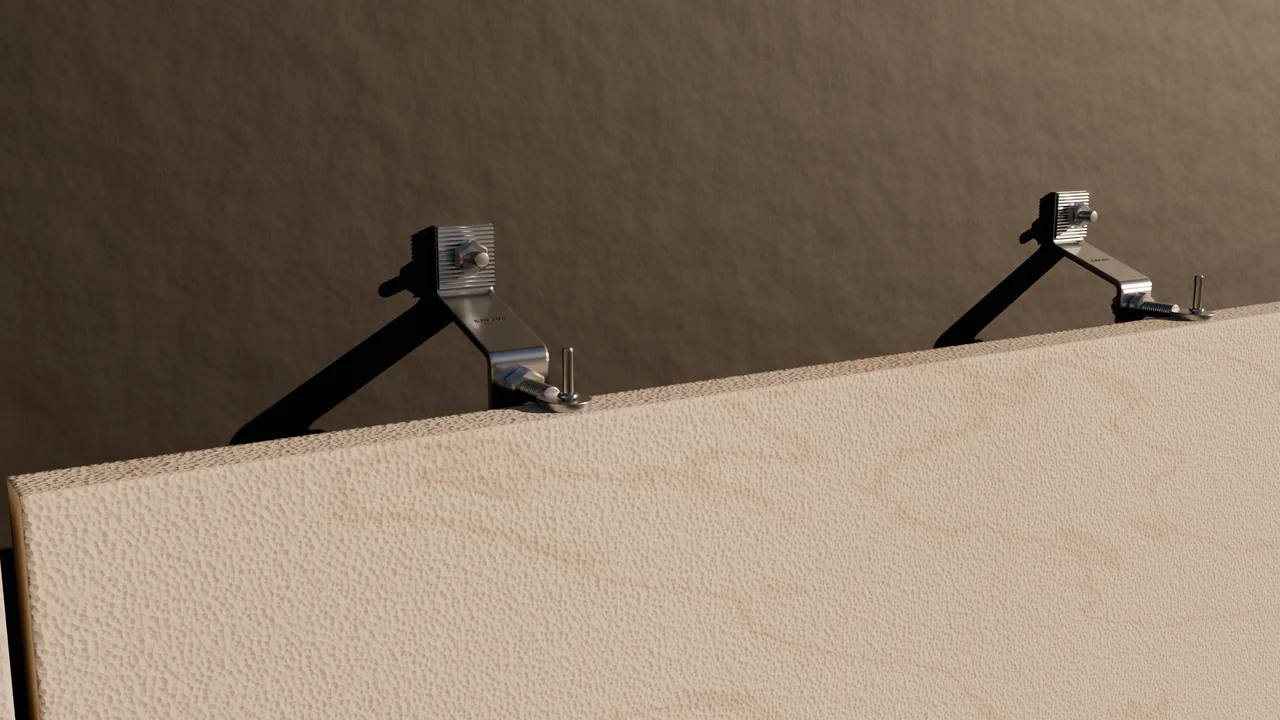
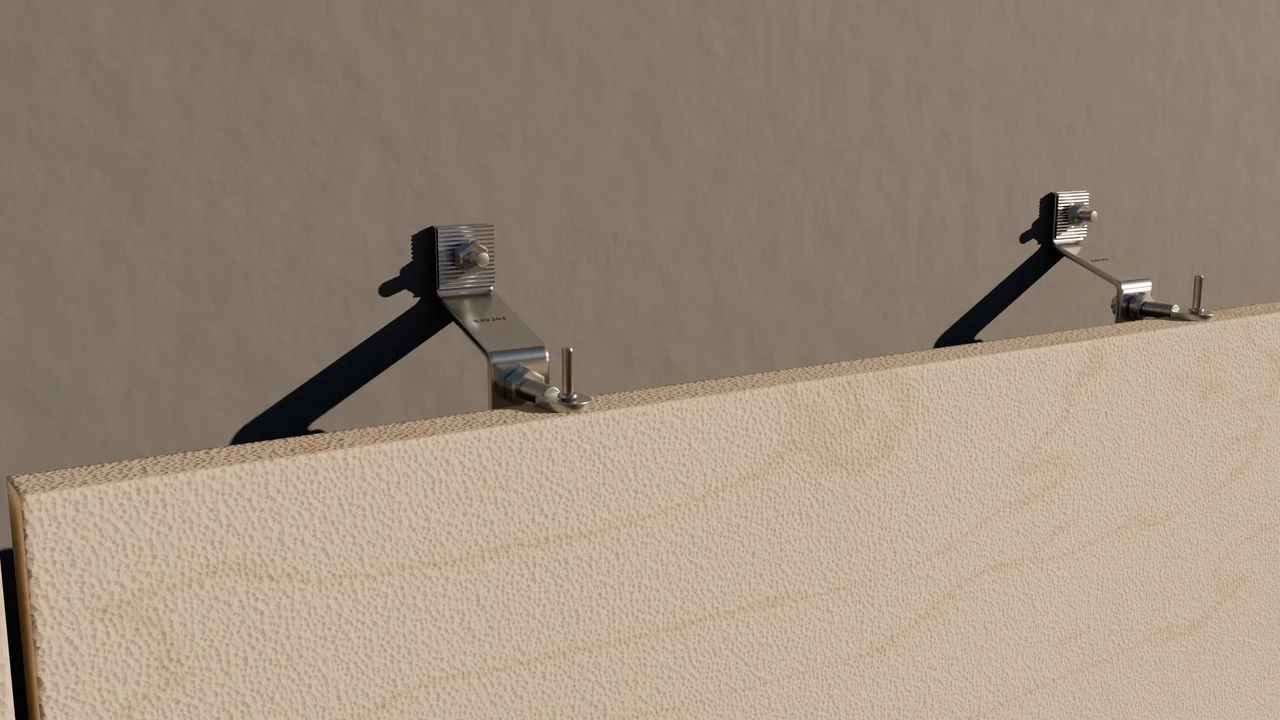
kv-v43a: facade chapter whole again (one open course shows the Z-brackets), concrete backing wall, no black bands; chapters 2-3 re-rendered
Claude-Session: https://claude.ai/code/session_01DoBbC3eykc5Fi4qFnF1oRj

diff --git a/assets/kv/herophoto.js b/assets/kv/herophoto.js
@@ -1,1 +1,1 @@
-const S=[{name:"The hotel",ox:.62,hi:2880,v:"fca9d9",tags:[]},{name:"Fa\xE7ade fixation",ox:.5,hi:2880,v:"3bed16",tags:[{text:"Natural stone panels",num:null,href:"product/mechanical-cladding-fixation.html",x:.2466,y:.2372},{text:"Stainless Z-brackets",num:null,href:"s/z-brackets.html",x:.3729,y:.4036},{text:"Solid backing wall",num:null,href:"product/mechanical-cladding-fixation.html",x:.4204,y:.2644},{text:"Ventilated cavity",num:null,href:"product/mechanical-cladding-fixation.html",x:.4811,y:.2924}]},{name:"The Z-bracket kit",ox:.5,hi:2880,v:"ce540f",tags:[{text:"Z-bracket",num:"1",href:"s/z-brackets.html",x:.4004,y:.4414},{text:"Through bolt",num:"2",href:"s/anchors.html",x:.3714,y:.359},{text:"Serrated washer",num:"3",href:"s/z-brackets.html",x:.3811,y:.3216},{text:"Hex nuts",num:"4",href:"s/z-brackets.html",x:.4103,y:.5191},{text:"Flat head bolt",num:"5",href:"s/z-brackets.html",x:.432,y:.553},{text:"Pin with ring",num:"6",href:"s/z-brackets.html",x:.4434,y:.4982}]},{name:"Cable management",ox:.5,hi:2880,v:"dd6412",tags:[{text:"Perforated cable tray",num:null,href:"product/cable-trays.html",x:.3201,y:.235},{text:"Cable ladder",num:null,href:"product/cable-ladders.html",x:.7321,y:.5475},{text:"Strut channel trapeze",num:null,href:"product/c-channel-strut.html",x:.6573,y:.4215},{text:"Threaded rod & nuts",num:null,href:"s/threaded-accessories.html",x:.7319,y:.4777},{text:"Pipe clamps",num:null,href:"product/pipe-clamps.html",x:.3827,y:.4447},{text:"Cable trunking",num:null,href:"product/cable-trunkings.html",x:.16,y:.9149}]},{name:"Raised access floor",ox:.5,hi:2880,v:"5015d3",tags:[{text:"Porcelain slabs 600 \xD7 600 mm",num:null,href:"product/raised-access-flooring.html",x:.6838,y:.4969},{text:"Adjustable pedestals",num:null,href:"s/indoor-access-floor.html",x:.6216,y:.6939},{text:"Self-levelling head",num:null,href:"s/indoor-access-floor.html",x:.857,y:.5949}]},{name:"Ceilings & expansion joints",ox:.5,hi:2880,v:"5e539d",tags:[{text:"Metal ceiling grid",num:null,href:"product/metal-ceiling-grid.html",x:.4944,y:.3199},{text:"Floor expansion joint",num:null,href:"s/floor-joints.html",x:.41,y:.78},{text:"Wall joint cover",num:null,href:"s/wall-ceiling-joints.html",x:.398,y:.5393}]},{name:"Blockwork & lintels",ox:.5,hi:2880,v:"d82cc7",tags:[{text:"Blockwork partition",num:null,href:"s/block-accessories.html",x:.4462,y:.3793},{text:"Steel lintel",num:null,href:"s/steel-lintels.html",x:.5078,y:.316},{text:"Angle beads",num:null,href:"s/plaster-beads.html",x:.5452,y:.5425}]},{name:"Garbage & linen chute",ox:.5,hi:2880,v:"ae5405",tags:[{text:"Chute through every floor",num:null,href:"product/garbage-linen-chutes.html",x:.513,y:.385},{text:"Intake doors",num:null,href:"s/chute-components.html",x:.5025,y:.4667},{text:"Chute sections",num:null,href:"s/chute-components.html",x:.515,y:.74}]},{name:"The roof",ox:.5,hi:2880,v:"da81b9",tags:[{text:"Porcelain terrace",num:null,href:"s/outdoor-pedestals.html",x:.5,y:.78},{text:"Terrace on adjustable pedestals",num:null,href:"s/outdoor-pedestals.html",x:.4508,y:.6766},{text:"FRP grating walkway",num:null,href:"s/frp-grating-handrail.html",x:.6566,y:.5929},{text:"FRP handrail",num:null,href:"s/frp-grating-handrail.html",x:.788,y:.3357},{text:"Cable ladder on strut stands",num:null,href:"product/cable-ladders.html",x:.7073,y:.3621}]}],Nt=[{o:[1.7,.65,.58],i:[1.22,.1,0]},{o:[1.6,.48,.59],i:[1.2,0,.25]},{o:[1.28,.5,.5],i:[1.4,.69,.98]},{o:[1.3,.4,1],i:[1.3,.45,0]},{o:[1.3,.4,0],i:[1.3,.6,1]},{o:[1.3,.5,0],i:[1.3,.5,1]},{o:[1.18,.5,.5],i:[1.35,.46,.07]},{o:[1.5,.19,.82],i:[1.25,.45,1]}],p="img/hotel/",X=620,i=document.querySelector(".hero"),ut=i&&i.querySelector(".hero-media");i&&ut&&zt();function zt(){const B=matchMedia("(prefers-reduced-motion: reduce)").matches,N=matchMedia("(min-width: 900px)"),v=S.length;let h=null;B||(h=document.createElement("div"),h.className="kv3d-pin kv3d-pin-long",i.parentNode.insertBefore(h,i),h.appendChild(i));const G=()=>!!h&&N.matches,z=document.createElement("div");z.className="kvh-stack",ut.appendChild(z);const y=S.map((t,a)=>{let n;const o="?v="+t.v,e=t.hi>1?t.hi:2560,l=p+"c"+a+"-1280.webp"+o+" 1280w, "+p+"c"+a+"-1920.webp"+o+" 1920w"+(t.hi?", "+p+"c"+a+"-"+e+".webp"+o+" "+e+"w":"");return a===0?(n=document.createElement("picture"),n.innerHTML='<source media="(max-width: 899px)" srcset="'+p+"c0p-800.webp?v=579884 800w, "+p+'c0p-1080.webp?v=579884 1080w" sizes="100vw"><img src="'+p+"c0-1920.webp"+o+'" srcset="'+l+'" sizes="100vw" alt="" fetchpriority="high" decoding="async">'):(n=document.createElement("img"),n.alt="",n.decoding="async",n.dataset.srcset=l),n.className="kvh-img"+(a===0?" on":""),n.style.setProperty("--ox",t.ox*100+"%"),z.appendChild(n),n}),O=t=>y[t].tagName==="PICTURE"?y[t].querySelector("img"):y[t],ft=t=>{const a=O(t);return a.complete&&a.naturalWidth>0},E=t=>{const a=y[t];a&&a.dataset.srcset&&(a.sizes="100vw",a.srcset=a.dataset.srcset,delete a.dataset.srcset)},xt=(t,a,n)=>{if(E(t),ft(t))return a();const o=O(t);let e=!1;const l=()=>{e||(e=!0,a())};o.addEventListener("load",l,{once:!0}),o.addEventListener("error",l,{once:!0}),n&&setTimeout(l,n)},M=document.createElement("div");M.className="kv3d-labels",M.setAttribute("aria-hidden","true"),i.appendChild(M);const pt=(t,a)=>{const n=document.createElement("div");n.className="kv3d-tag",n.style.setProperty("--d",a*70+"ms");const o=document.createElement("span");o.className="kv3d-dot";const e=document.createElement("span");e.className="kv3d-line";const l=document.createElement(t.href?"a":"span");if(l.className="kv3d-chip",t.href&&(l.href=t.href,l.tabIndex=-1,l.style.textDecoration="none",l.style.pointerEvents="none"),t.num){const m=document.createElement("b");m.textContent=t.num,l.appendChild(m)}const u=document.createElement("span");return u.textContent=t.text,l.appendChild(u),n.append(e,o,l),M.appendChild(n),{el:n,line:e,chip:l,on:!1,href:!!t.href,x:t.x,y:t.y}},yt=S.map(t=>t.tags.map(pt)),I=document.createElement("div");I.className="kv3d-steps kv3d-steps-many";const gt=S.map((t,a)=>{const n=document.createElement("button");n.type="button",n.className="kv3d-step";const o=document.createElement("b");o.textContent=String(a+1).padStart(2,"0");const e=document.createElement("span");return e.textContent=t.name,n.append(o,e),n.setAttribute("aria-label",t.name),n.addEventListener("click",()=>{G()&&(E(a),scrollTo({top:vt(a),behavior:"smooth"}))}),I.appendChild(n),n});i.appendChild(I);const C=document.createElement("div");C.className="kv3d-hint",C.textContent="Scroll to tour the hotel",i.appendChild(C),h||(I.hidden=!0,C.hidden=!0);const _=()=>Math.max(1,h.offsetHeight-i.offsetHeight),vt=t=>h.getBoundingClientRect().top+scrollY-62+_()*(t/(v-1));let F=1,R=1;const Q=1920,J=1080,Et=(t,a,n)=>{const o=Math.max(F/Q,R/J),e=Q*o,l=J*o;return[(F-e)*t.ox+a*e,(R-l)*.5+n*l]};function D(){const t=i.getBoundingClientRect();F=Math.max(1,t.width),R=Math.max(1,t.height),P()}let T=0,q=!1,d=0,A=0,b=0,K=0,bt=2,$=0,U=0;const wt=()=>d;function P(){const t=G(),a=!q&&d===T;yt.forEach((o,e)=>Lt(o,S[e],t&&a&&e===T));const n=t?wt():0;i.classList.toggle("kv3d-detail",t&&n>0),gt.forEach((o,e)=>o.classList.toggle("on",e===n)),C.classList.toggle("gone",A>.02)}const tt=t=>"translate("+((1-t[0])*t[1]*100).toFixed(3)+"%,"+((1-t[0])*t[2]*100).toFixed(3)+"%) scale("+t[0]+")",kt="translate(0,0) scale(1)",Mt=t=>{const a=getComputedStyle(t);t.style.transition="none",t.style.transform=a.transform,t.style.opacity=a.opacity},et="cubic-bezier(.33,0,.15,1)";function Ct(t){const a=T,n=++U;q=!0,P(),xt(t,()=>{if(n!==U)return;const o=y[a],e=y[t],l=t>a,u=Math.abs(t-a)===1,m=u?Nt[Math.min(a,t)]:null,f=u?l?m.o:m.i:[1.22,.5,.5],L=u?l?m.i:m.o:[1.1,.5,.5];y.forEach(s=>{s.classList.contains("on")&&Mt(s)}),e.style.transition="none",e.style.zIndex=++bt,e.style.transformOrigin="0 0",e.classList.contains("on")||(e.style.opacity=0,e.style.transform=tt(L),e.classList.add("on")),o.style.transformOrigin="0 0",e.offsetWidth;const k="transform "+X+"ms "+et+", opacity "+Math.round(X*.8)+"ms ease-in-out";e.style.transition=k,e.style.transform=kt,e.style.opacity=1,o!==e&&(o.style.transition="transform "+X+"ms "+et,o.style.transform=tt(f)),T=t,clearTimeout($),$=setTimeout(()=>{n===U&&(y.forEach((s,r)=>{r!==t&&(s.classList.remove("on"),s.style.transition="none",s.style.transform="",s.style.opacity="")}),e.style.transition="none",e.style.transform="",e.style.opacity="",q=!1,P(),H())},X+40)},1200)}function H(){if(d===T){q||(E(T),P());return}Ct(d)}const nt=.2,Tt=.05;let w=0;function W(){if(!G()){A=0,d!==0&&(d=0,H()),P();return}const t=h.getBoundingClientRect(),a=Math.max(0,Math.min(1,(62-t.top)/_()));A=a;const n=a*(v-1);b===0?Math.abs(n-w)>.01&&(b=n>w?1:-1,w=n):(n-w)*b>=0?w=n:Math.abs(n-w)>Tt&&(b=-b,w=n);let o=d;b>0?o=Math.max(d,Math.floor(n-nt)+1):b<0&&(o=Math.min(d,Math.ceil(n+nt)-1)),o=Math.max(0,Math.min(v-1,o)),clearTimeout(K),K=setTimeout(()=>{const e=Math.round(A*(v-1));Math.abs(A*(v-1)-d)>=1&&e!==d&&(d=e,H())},250),C.classList.toggle("gone",a>.02),o!==d&&(d=o,E(Math.min(v-1,o+1)),H())}const at=42,st=60;function Lt(t,a,n){if(!t.length||(t.forEach(s=>{n!==s.on&&(s.on=n,s.el.classList.toggle("on",n),s.href&&(s.chip.style.pointerEvents=n?"auto":"none"))}),!n))return;const e=t.map(s=>{const[r,g]=Et(a,s.x,s.y);return{L:s,ax:r,ay:g}}).filter(s=>{const r=s.ax>16&&s.ax<F-16&&s.ay>70&&s.ay<R-16;return!r&&s.L.on&&(s.L.on=!1,s.L.el.classList.remove("on"),s.L.href&&(s.L.chip.style.pointerEvents="none")),r});if(!e.length)return;const l=e.reduce((s,r)=>s+r.ax,0)/e.length,u=Math.min(...e.map(s=>s.ax)),m=Math.max(...e.map(s=>s.ax)),f={l:[],r:[]};e.forEach(s=>f[s.ax<l?"l":"r"].push(s));const L=96,k=R-118;["l","r"].forEach(s=>{const r=f[s].sort((c,St)=>c.ay-St.ay);if(!r.length)return;const g=s==="l"?u-st*.6:m+st*.6,x=s==="l"?Math.max(240,g):Math.min(F-240,g);let Z=-1e9;r.forEach(c=>{c.ty=Math.max(c.ay,Z+at),Z=c.ty});const ht=Z-k;ht>0&&r.forEach(c=>c.ty-=ht);for(let c=r.length-2;c>=0;c--)r[c].ty=Math.min(r[c].ty,r[c+1].ty-at);const mt=L-r[0].ty;mt>0&&r.forEach(c=>c.ty+=mt),r.forEach(c=>{s==="r"&&c.ax>x-30?(c.tx=Math.min(x,c.ax-70),c.left=!0):s==="l"&&c.ax<x+30?(c.tx=Math.max(x,c.ax+70),c.left=!1):(c.tx=x,c.left=s==="l")})}),e.forEach(s=>{const r=s.L,g=s.tx-s.ax,x=s.ty-s.ay;r.el.style.transform="translate("+s.ax.toFixed(1)+"px,"+s.ay.toFixed(1)+"px)",r.el.classList.toggle("left",s.left),r.line.style.width=Math.hypot(g,x).toFixed(1)+"px",r.line.style.transform="rotate("+Math.atan2(x,g).toFixed(4)+"rad)",r.chip.style.left=g.toFixed(1)+"px",r.chip.style.top=x.toFixed(1)+"px"})}const j=document.createElement("section");j.className="kvh-tour"+(h?"":" show"),j.setAttribute("aria-label","Tour the hotel"),j.innerHTML='<div class="wrap"><span class="eyebrow">Tour the hotel</span><p class="kvh-tour-lead">One building, every system: swipe through the floors.</p></div>';const V=document.createElement("div");V.className="kvh-tour-rail",j.appendChild(V),S.forEach((t,a)=>{if(a===0)return;const n=document.createElement("article");n.className="kvh-tour-card";const o="?v="+t.v,e=document.createElement("img");e.loading="lazy",e.decoding="async",e.alt=t.name,e.width=1280,e.height=720,e.src=p+"c"+a+"-1280.webp"+o,e.srcset=p+"c"+a+"-1280.webp"+o+" 1280w, "+p+"c"+a+"-1920.webp"+o+" 1920w",e.sizes="(max-width: 899px) 86vw, 40vw";const l=document.createElement("h3"),u=document.createElement("b");u.textContent=String(a+1).padStart(2,"0"),l.append(u,document.createTextNode(" "+t.name));const m=document.createElement("ul");t.tags.forEach(f=>{const L=document.createElement("li"),k=document.createElement(f.href?"a":"span");f.href&&(k.href=f.href),k.textContent=f.text,L.appendChild(k),m.appendChild(L)}),n.append(e,l,m),V.appendChild(n)}),(h||i).insertAdjacentElement("afterend",j);const ot=["scroll","wheel","touchstart","keydown","pointerdown"];let lt=!1;const rt=()=>{if(!(lt||!N.matches||B)){lt=!0;for(let t=1;t<v;t++)setTimeout(()=>E(t),120*t);ot.forEach(t=>removeEventListener(t,rt))}},ct=()=>{!N.matches||B||(E(1),E(2))};"requestIdleCallback"in window?requestIdleCallback(ct,{timeout:2500}):setTimeout(ct,1500),ot.forEach(t=>addEventListener(t,rt,{passive:!0})),addEventListener("scroll",W,{passive:!0}),!B&&matchMedia("(pointer:fine)").matches&&(i.addEventListener("pointermove",t=>{const a=i.getBoundingClientRect(),n=(t.clientX-a.left)/a.width-.5,o=(t.clientY-a.top)/a.height-.5,e="translate3d("+(-n*14).toFixed(1)+"px,"+(-o*9).toFixed(1)+"px,0) scale(1.025)";z.style.transform=e,M.style.transform=e}),i.addEventListener("pointerleave",()=>{z.style.transform="",M.style.transform=""}));const it=()=>{i.classList.add("has-3d","kvh-ready"),h&&h.classList.add("on"),D(),W()},Y=O(0);Y.complete&&Y.naturalWidth?it():Y.addEventListener("load",it,{once:!0});let dt;addEventListener("resize",()=>{clearTimeout(dt),dt=setTimeout(()=>{D(),W()},80)}),N.addEventListener&&N.addEventListener("change",()=>{D(),W()})}
+const S=[{name:"The hotel",ox:.62,hi:2880,v:"fca9d9",tags:[]},{name:"Fa\xE7ade fixation",ox:.5,hi:2880,v:"5ce65e",tags:[{text:"Natural stone panels",num:null,href:"product/mechanical-cladding-fixation.html",x:.2466,y:.2372},{text:"Stainless Z-brackets",num:null,href:"s/z-brackets.html",x:.3729,y:.4036},{text:"Solid backing wall",num:null,href:"product/mechanical-cladding-fixation.html",x:.4204,y:.2644},{text:"Ventilated cavity",num:null,href:"product/mechanical-cladding-fixation.html",x:.4811,y:.2924}]},{name:"The Z-bracket kit",ox:.5,hi:2880,v:"8355e3",tags:[{text:"Z-bracket",num:"1",href:"s/z-brackets.html",x:.4004,y:.4414},{text:"Through bolt",num:"2",href:"s/anchors.html",x:.3714,y:.359},{text:"Serrated washer",num:"3",href:"s/z-brackets.html",x:.3811,y:.3216},{text:"Hex nuts",num:"4",href:"s/z-brackets.html",x:.4103,y:.5191},{text:"Flat head bolt",num:"5",href:"s/z-brackets.html",x:.432,y:.553},{text:"Pin with ring",num:"6",href:"s/z-brackets.html",x:.4434,y:.4982}]},{name:"Cable management",ox:.5,hi:2880,v:"dd6412",tags:[{text:"Perforated cable tray",num:null,href:"product/cable-trays.html",x:.3201,y:.235},{text:"Cable ladder",num:null,href:"product/cable-ladders.html",x:.7321,y:.5475},{text:"Strut channel trapeze",num:null,href:"product/c-channel-strut.html",x:.6573,y:.4215},{text:"Threaded rod & nuts",num:null,href:"s/threaded-accessories.html",x:.7319,y:.4777},{text:"Pipe clamps",num:null,href:"product/pipe-clamps.html",x:.3827,y:.4447},{text:"Cable trunking",num:null,href:"product/cable-trunkings.html",x:.16,y:.9149}]},{name:"Raised access floor",ox:.5,hi:2880,v:"5015d3",tags:[{text:"Porcelain slabs 600 \xD7 600 mm",num:null,href:"product/raised-access-flooring.html",x:.6838,y:.4969},{text:"Adjustable pedestals",num:null,href:"s/indoor-access-floor.html",x:.6216,y:.6939},{text:"Self-levelling head",num:null,href:"s/indoor-access-floor.html",x:.857,y:.5949}]},{name:"Ceilings & expansion joints",ox:.5,hi:2880,v:"5e539d",tags:[{text:"Metal ceiling grid",num:null,href:"product/metal-ceiling-grid.html",x:.4944,y:.3199},{text:"Floor expansion joint",num:null,href:"s/floor-joints.html",x:.41,y:.78},{text:"Wall joint cover",num:null,href:"s/wall-ceiling-joints.html",x:.398,y:.5393}]},{name:"Blockwork & lintels",ox:.5,hi:2880,v:"d82cc7",tags:[{text:"Blockwork partition",num:null,href:"s/block-accessories.html",x:.4462,y:.3793},{text:"Steel lintel",num:null,href:"s/steel-lintels.html",x:.5078,y:.316},{text:"Angle beads",num:null,href:"s/plaster-beads.html",x:.5452,y:.5425}]},{name:"Garbage & linen chute",ox:.5,hi:2880,v:"ae5405",tags:[{text:"Chute through every floor",num:null,href:"product/garbage-linen-chutes.html",x:.513,y:.385},{text:"Intake doors",num:null,href:"s/chute-components.html",x:.5025,y:.4667},{text:"Chute sections",num:null,href:"s/chute-components.html",x:.515,y:.74}]},{name:"The roof",ox:.5,hi:2880,v:"da81b9",tags:[{text:"Porcelain terrace",num:null,href:"s/outdoor-pedestals.html",x:.5,y:.78},{text:"Terrace on adjustable pedestals",num:null,href:"s/outdoor-pedestals.html",x:.4508,y:.6766},{text:"FRP grating walkway",num:null,href:"s/frp-grating-handrail.html",x:.6566,y:.5929},{text:"FRP handrail",num:null,href:"s/frp-grating-handrail.html",x:.788,y:.3357},{text:"Cable ladder on strut stands",num:null,href:"product/cable-ladders.html",x:.7073,y:.3621}]}],Nt=[{o:[1.7,.65,.58],i:[1.22,.1,0]},{o:[1.6,.48,.59],i:[1.2,0,.25]},{o:[1.28,.5,.5],i:[1.4,.69,.98]},{o:[1.3,.4,1],i:[1.3,.45,0]},{o:[1.3,.4,0],i:[1.3,.6,1]},{o:[1.3,.5,0],i:[1.3,.5,1]},{o:[1.18,.5,.5],i:[1.35,.46,.07]},{o:[1.5,.19,.82],i:[1.25,.45,1]}],p="img/hotel/",X=620,i=document.querySelector(".hero"),ut=i&&i.querySelector(".hero-media");i&&ut&&zt();function zt(){const B=matchMedia("(prefers-reduced-motion: reduce)").matches,N=matchMedia("(min-width: 900px)"),v=S.length;let h=null;B||(h=document.createElement("div"),h.className="kv3d-pin kv3d-pin-long",i.parentNode.insertBefore(h,i),h.appendChild(i));const G=()=>!!h&&N.matches,z=document.createElement("div");z.className="kvh-stack",ut.appendChild(z);const y=S.map((t,a)=>{let n;const o="?v="+t.v,e=t.hi>1?t.hi:2560,l=p+"c"+a+"-1280.webp"+o+" 1280w, "+p+"c"+a+"-1920.webp"+o+" 1920w"+(t.hi?", "+p+"c"+a+"-"+e+".webp"+o+" "+e+"w":"");return a===0?(n=document.createElement("picture"),n.innerHTML='<source media="(max-width: 899px)" srcset="'+p+"c0p-800.webp?v=579884 800w, "+p+'c0p-1080.webp?v=579884 1080w" sizes="100vw"><img src="'+p+"c0-1920.webp"+o+'" srcset="'+l+'" sizes="100vw" alt="" fetchpriority="high" decoding="async">'):(n=document.createElement("img"),n.alt="",n.decoding="async",n.dataset.srcset=l),n.className="kvh-img"+(a===0?" on":""),n.style.setProperty("--ox",t.ox*100+"%"),z.appendChild(n),n}),O=t=>y[t].tagName==="PICTURE"?y[t].querySelector("img"):y[t],ft=t=>{const a=O(t);return a.complete&&a.naturalWidth>0},E=t=>{const a=y[t];a&&a.dataset.srcset&&(a.sizes="100vw",a.srcset=a.dataset.srcset,delete a.dataset.srcset)},xt=(t,a,n)=>{if(E(t),ft(t))return a();const o=O(t);let e=!1;const l=()=>{e||(e=!0,a())};o.addEventListener("load",l,{once:!0}),o.addEventListener("error",l,{once:!0}),n&&setTimeout(l,n)},M=document.createElement("div");M.className="kv3d-labels",M.setAttribute("aria-hidden","true"),i.appendChild(M);const pt=(t,a)=>{const n=document.createElement("div");n.className="kv3d-tag",n.style.setProperty("--d",a*70+"ms");const o=document.createElement("span");o.className="kv3d-dot";const e=document.createElement("span");e.className="kv3d-line";const l=document.createElement(t.href?"a":"span");if(l.className="kv3d-chip",t.href&&(l.href=t.href,l.tabIndex=-1,l.style.textDecoration="none",l.style.pointerEvents="none"),t.num){const m=document.createElement("b");m.textContent=t.num,l.appendChild(m)}const u=document.createElement("span");return u.textContent=t.text,l.appendChild(u),n.append(e,o,l),M.appendChild(n),{el:n,line:e,chip:l,on:!1,href:!!t.href,x:t.x,y:t.y}},yt=S.map(t=>t.tags.map(pt)),I=document.createElement("div");I.className="kv3d-steps kv3d-steps-many";const gt=S.map((t,a)=>{const n=document.createElement("button");n.type="button",n.className="kv3d-step";const o=document.createElement("b");o.textContent=String(a+1).padStart(2,"0");const e=document.createElement("span");return e.textContent=t.name,n.append(o,e),n.setAttribute("aria-label",t.name),n.addEventListener("click",()=>{G()&&(E(a),scrollTo({top:vt(a),behavior:"smooth"}))}),I.appendChild(n),n});i.appendChild(I);const C=document.createElement("div");C.className="kv3d-hint",C.textContent="Scroll to tour the hotel",i.appendChild(C),h||(I.hidden=!0,C.hidden=!0);const _=()=>Math.max(1,h.offsetHeight-i.offsetHeight),vt=t=>h.getBoundingClientRect().top+scrollY-62+_()*(t/(v-1));let F=1,R=1;const Q=1920,J=1080,Et=(t,a,n)=>{const o=Math.max(F/Q,R/J),e=Q*o,l=J*o;return[(F-e)*t.ox+a*e,(R-l)*.5+n*l]};function D(){const t=i.getBoundingClientRect();F=Math.max(1,t.width),R=Math.max(1,t.height),P()}let T=0,q=!1,d=0,A=0,b=0,K=0,bt=2,$=0,U=0;const wt=()=>d;function P(){const t=G(),a=!q&&d===T;yt.forEach((o,e)=>Lt(o,S[e],t&&a&&e===T));const n=t?wt():0;i.classList.toggle("kv3d-detail",t&&n>0),gt.forEach((o,e)=>o.classList.toggle("on",e===n)),C.classList.toggle("gone",A>.02)}const tt=t=>"translate("+((1-t[0])*t[1]*100).toFixed(3)+"%,"+((1-t[0])*t[2]*100).toFixed(3)+"%) scale("+t[0]+")",kt="translate(0,0) scale(1)",Mt=t=>{const a=getComputedStyle(t);t.style.transition="none",t.style.transform=a.transform,t.style.opacity=a.opacity},et="cubic-bezier(.33,0,.15,1)";function Ct(t){const a=T,n=++U;q=!0,P(),xt(t,()=>{if(n!==U)return;const o=y[a],e=y[t],l=t>a,u=Math.abs(t-a)===1,m=u?Nt[Math.min(a,t)]:null,f=u?l?m.o:m.i:[1.22,.5,.5],L=u?l?m.i:m.o:[1.1,.5,.5];y.forEach(s=>{s.classList.contains("on")&&Mt(s)}),e.style.transition="none",e.style.zIndex=++bt,e.style.transformOrigin="0 0",e.classList.contains("on")||(e.style.opacity=0,e.style.transform=tt(L),e.classList.add("on")),o.style.transformOrigin="0 0",e.offsetWidth;const k="transform "+X+"ms "+et+", opacity "+Math.round(X*.8)+"ms ease-in-out";e.style.transition=k,e.style.transform=kt,e.style.opacity=1,o!==e&&(o.style.transition="transform "+X+"ms "+et,o.style.transform=tt(f)),T=t,clearTimeout($),$=setTimeout(()=>{n===U&&(y.forEach((s,r)=>{r!==t&&(s.classList.remove("on"),s.style.transition="none",s.style.transform="",s.style.opacity="")}),e.style.transition="none",e.style.transform="",e.style.opacity="",q=!1,P(),H())},X+40)},1200)}function H(){if(d===T){q||(E(T),P());return}Ct(d)}const nt=.2,Tt=.05;let w=0;function W(){if(!G()){A=0,d!==0&&(d=0,H()),P();return}const t=h.getBoundingClientRect(),a=Math.max(0,Math.min(1,(62-t.top)/_()));A=a;const n=a*(v-1);b===0?Math.abs(n-w)>.01&&(b=n>w?1:-1,w=n):(n-w)*b>=0?w=n:Math.abs(n-w)>Tt&&(b=-b,w=n);let o=d;b>0?o=Math.max(d,Math.floor(n-nt)+1):b<0&&(o=Math.min(d,Math.ceil(n+nt)-1)),o=Math.max(0,Math.min(v-1,o)),clearTimeout(K),K=setTimeout(()=>{const e=Math.round(A*(v-1));Math.abs(A*(v-1)-d)>=1&&e!==d&&(d=e,H())},250),C.classList.toggle("gone",a>.02),o!==d&&(d=o,E(Math.min(v-1,o+1)),H())}const at=42,st=60;function Lt(t,a,n){if(!t.length||(t.forEach(s=>{n!==s.on&&(s.on=n,s.el.classList.toggle("on",n),s.href&&(s.chip.style.pointerEvents=n?"auto":"none"))}),!n))return;const e=t.map(s=>{const[r,g]=Et(a,s.x,s.y);return{L:s,ax:r,ay:g}}).filter(s=>{const r=s.ax>16&&s.ax<F-16&&s.ay>70&&s.ay<R-16;return!r&&s.L.on&&(s.L.on=!1,s.L.el.classList.remove("on"),s.L.href&&(s.L.chip.style.pointerEvents="none")),r});if(!e.length)return;const l=e.reduce((s,r)=>s+r.ax,0)/e.length,u=Math.min(...e.map(s=>s.ax)),m=Math.max(...e.map(s=>s.ax)),f={l:[],r:[]};e.forEach(s=>f[s.ax<l?"l":"r"].push(s));const L=96,k=R-118;["l","r"].forEach(s=>{const r=f[s].sort((c,St)=>c.ay-St.ay);if(!r.length)return;const g=s==="l"?u-st*.6:m+st*.6,x=s==="l"?Math.max(240,g):Math.min(F-240,g);let Z=-1e9;r.forEach(c=>{c.ty=Math.max(c.ay,Z+at),Z=c.ty});const ht=Z-k;ht>0&&r.forEach(c=>c.ty-=ht);for(let c=r.length-2;c>=0;c--)r[c].ty=Math.min(r[c].ty,r[c+1].ty-at);const mt=L-r[0].ty;mt>0&&r.forEach(c=>c.ty+=mt),r.forEach(c=>{s==="r"&&c.ax>x-30?(c.tx=Math.min(x,c.ax-70),c.left=!0):s==="l"&&c.ax<x+30?(c.tx=Math.max(x,c.ax+70),c.left=!1):(c.tx=x,c.left=s==="l")})}),e.forEach(s=>{const r=s.L,g=s.tx-s.ax,x=s.ty-s.ay;r.el.style.transform="translate("+s.ax.toFixed(1)+"px,"+s.ay.toFixed(1)+"px)",r.el.classList.toggle("left",s.left),r.line.style.width=Math.hypot(g,x).toFixed(1)+"px",r.line.style.transform="rotate("+Math.atan2(x,g).toFixed(4)+"rad)",r.chip.style.left=g.toFixed(1)+"px",r.chip.style.top=x.toFixed(1)+"px"})}const j=document.createElement("section");j.className="kvh-tour"+(h?"":" show"),j.setAttribute("aria-label","Tour the hotel"),j.innerHTML='<div class="wrap"><span class="eyebrow">Tour the hotel</span><p class="kvh-tour-lead">One building, every system: swipe through the floors.</p></div>';const V=document.createElement("div");V.className="kvh-tour-rail",j.appendChild(V),S.forEach((t,a)=>{if(a===0)return;const n=document.createElement("article");n.className="kvh-tour-card";const o="?v="+t.v,e=document.createElement("img");e.loading="lazy",e.decoding="async",e.alt=t.name,e.width=1280,e.height=720,e.src=p+"c"+a+"-1280.webp"+o,e.srcset=p+"c"+a+"-1280.webp"+o+" 1280w, "+p+"c"+a+"-1920.webp"+o+" 1920w",e.sizes="(max-width: 899px) 86vw, 40vw";const l=document.createElement("h3"),u=document.createElement("b");u.textContent=String(a+1).padStart(2,"0"),l.append(u,document.createTextNode(" "+t.name));const m=document.createElement("ul");t.tags.forEach(f=>{const L=document.createElement("li"),k=document.createElement(f.href?"a":"span");f.href&&(k.href=f.href),k.textContent=f.text,L.appendChild(k),m.appendChild(L)}),n.append(e,l,m),V.appendChild(n)}),(h||i).insertAdjacentElement("afterend",j);const ot=["scroll","wheel","touchstart","keydown","pointerdown"];let lt=!1;const rt=()=>{if(!(lt||!N.matches||B)){lt=!0;for(let t=1;t<v;t++)setTimeout(()=>E(t),120*t);ot.forEach(t=>removeEventListener(t,rt))}},ct=()=>{!N.matches||B||(E(1),E(2))};"requestIdleCallback"in window?requestIdleCallback(ct,{timeout:2500}):setTimeout(ct,1500),ot.forEach(t=>addEventListener(t,rt,{passive:!0})),addEventListener("scroll",W,{passive:!0}),!B&&matchMedia("(pointer:fine)").matches&&(i.addEventListener("pointermove",t=>{const a=i.getBoundingClientRect(),n=(t.clientX-a.left)/a.width-.5,o=(t.clientY-a.top)/a.height-.5,e="translate3d("+(-n*14).toFixed(1)+"px,"+(-o*9).toFixed(1)+"px,0) scale(1.025)";z.style.transform=e,M.style.transform=e}),i.addEventListener("pointerleave",()=>{z.style.transform="",M.style.transform=""}));const it=()=>{i.classList.add("has-3d","kvh-ready"),h&&h.classList.add("on"),D(),W()},Y=O(0);Y.complete&&Y.naturalWidth?it():Y.addEventListener("load",it,{once:!0});let dt;addEventListener("resize",()=>{clearTimeout(dt),dt=setTimeout(()=>{D(),W()},80)}),N.addEventListener&&N.addEventListener("change",()=>{D(),W()})}

diff --git a/index.html b/index.html
@@ -369,6 +369,6 @@
 
 
 <script src="assets/kv/ui.js?v=b01cdc5f" defer id="kv-ui-js"></script>
-<script type="module" src="assets/kv/herophoto.js?v=f635d4fe" id="kv-3d-js"></script>
+<script type="module" src="assets/kv/herophoto.js?v=69b47eea" id="kv-3d-js"></script>
 </body>
 </html>
